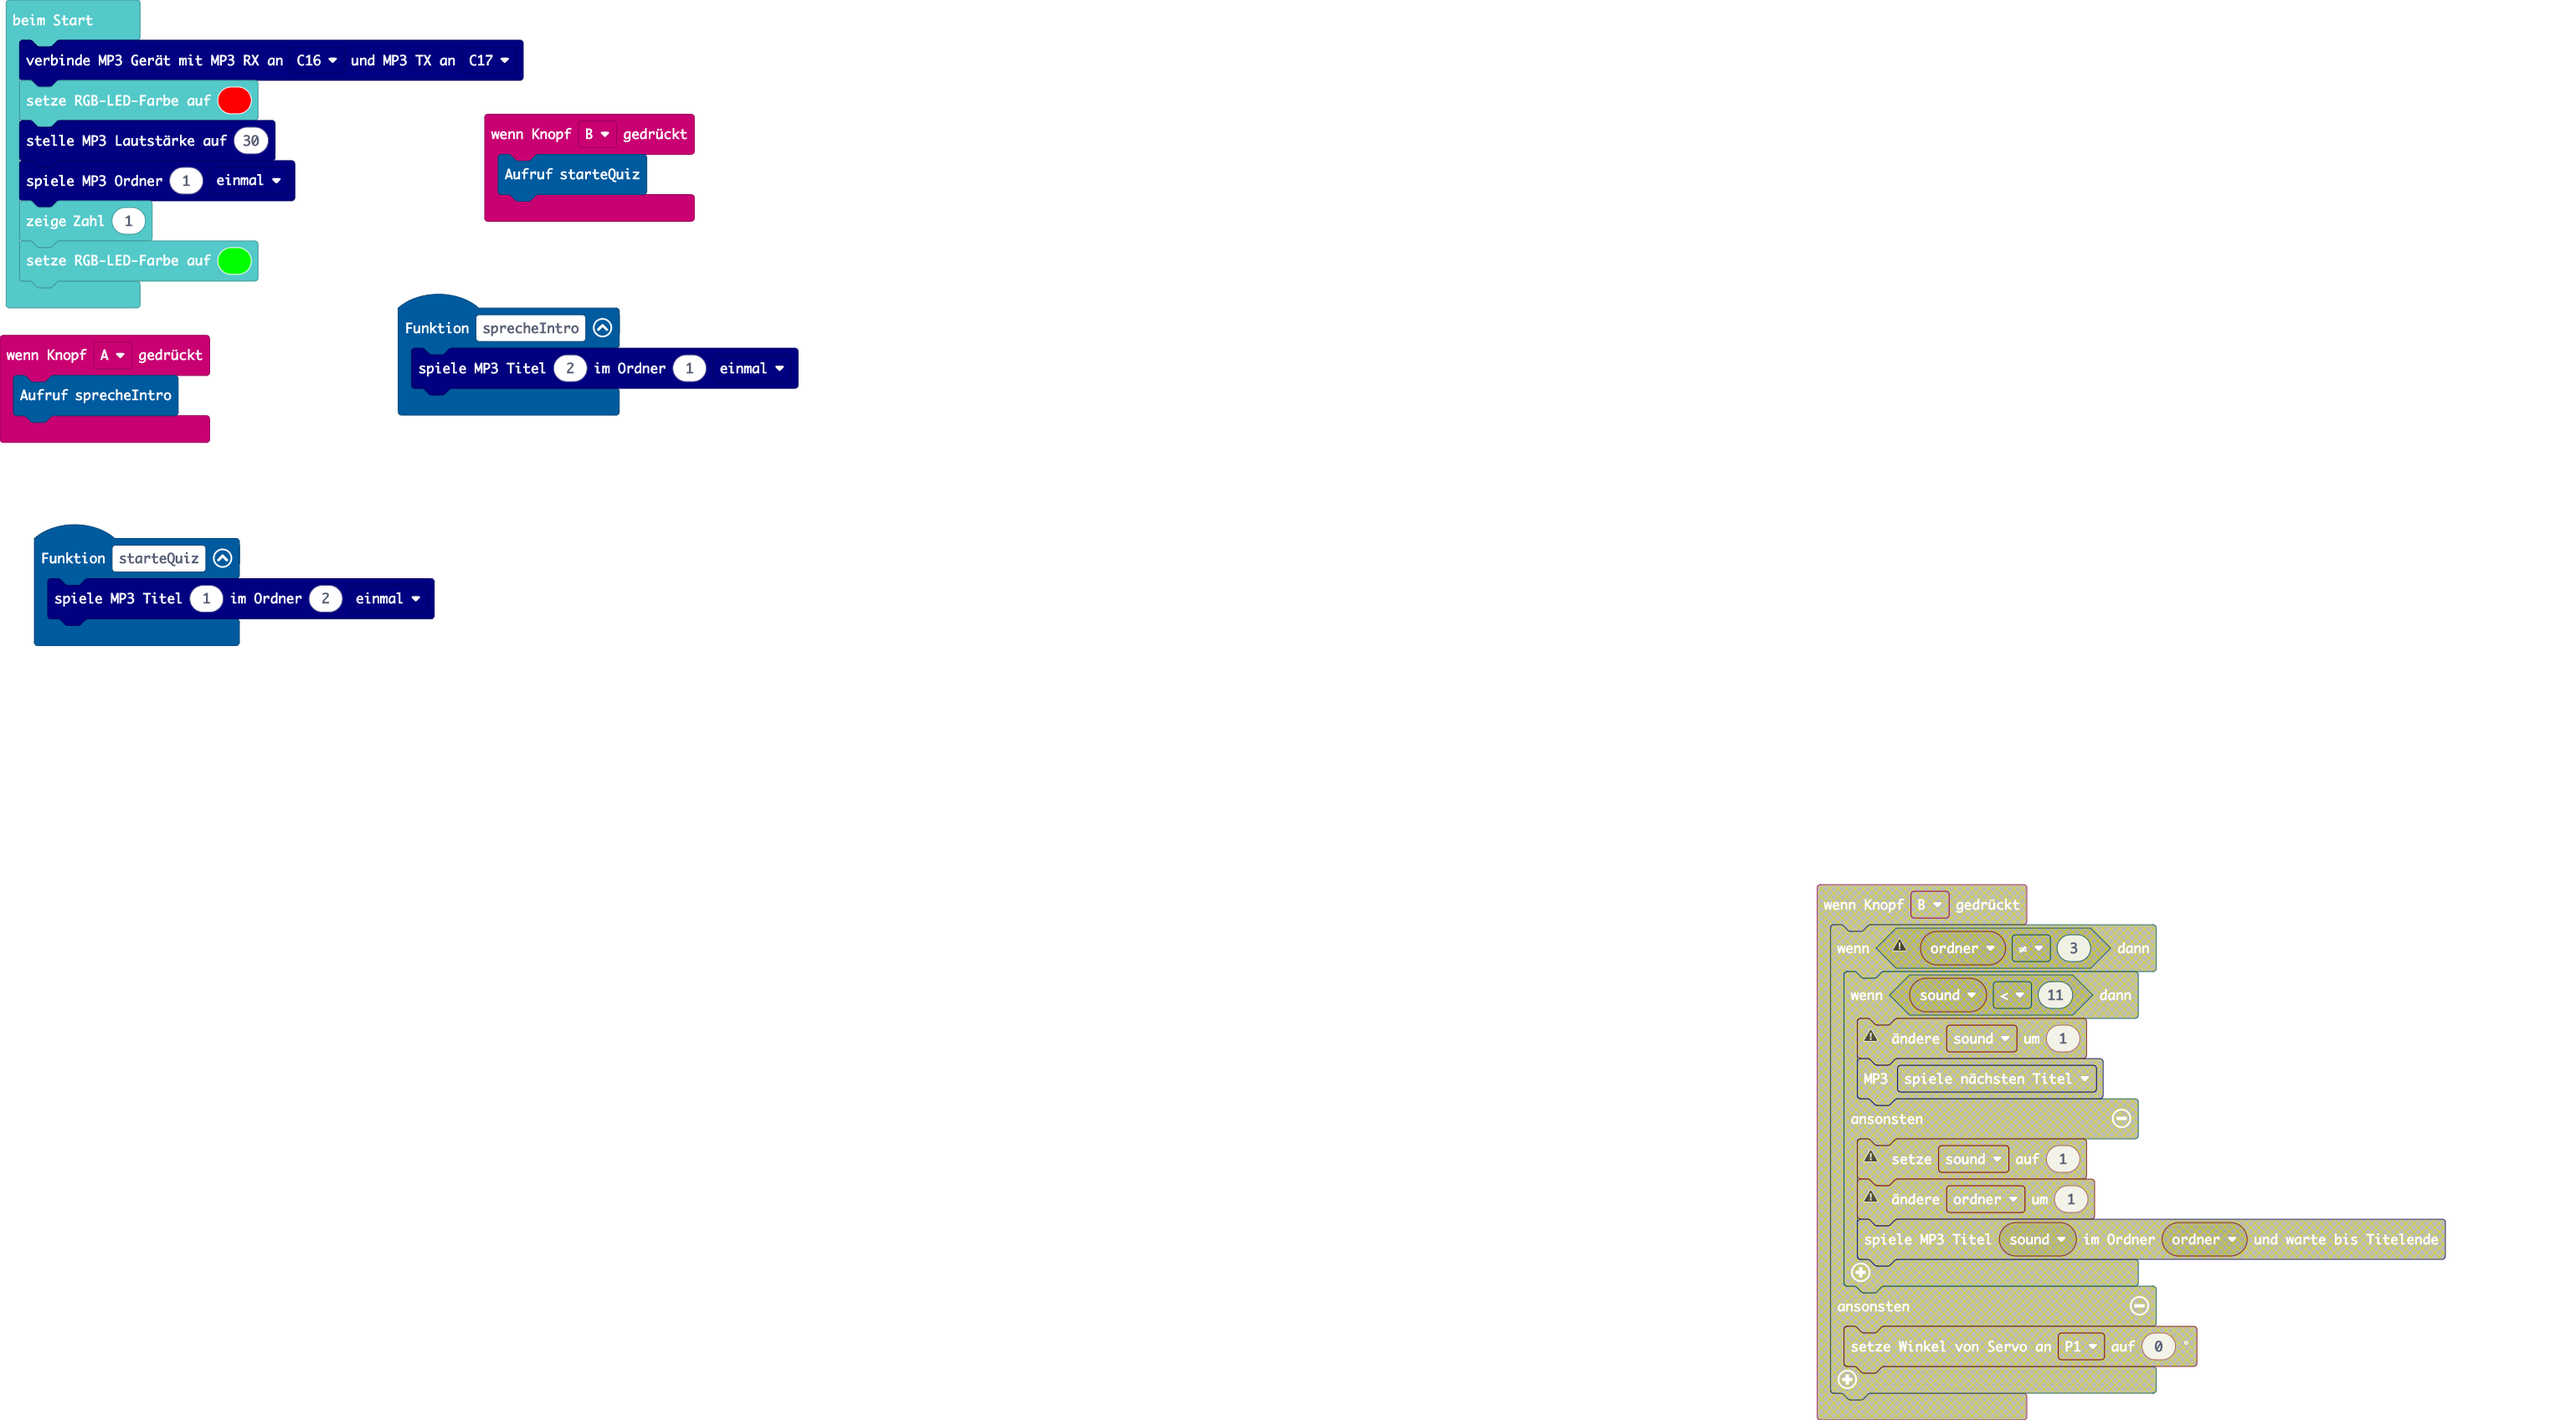
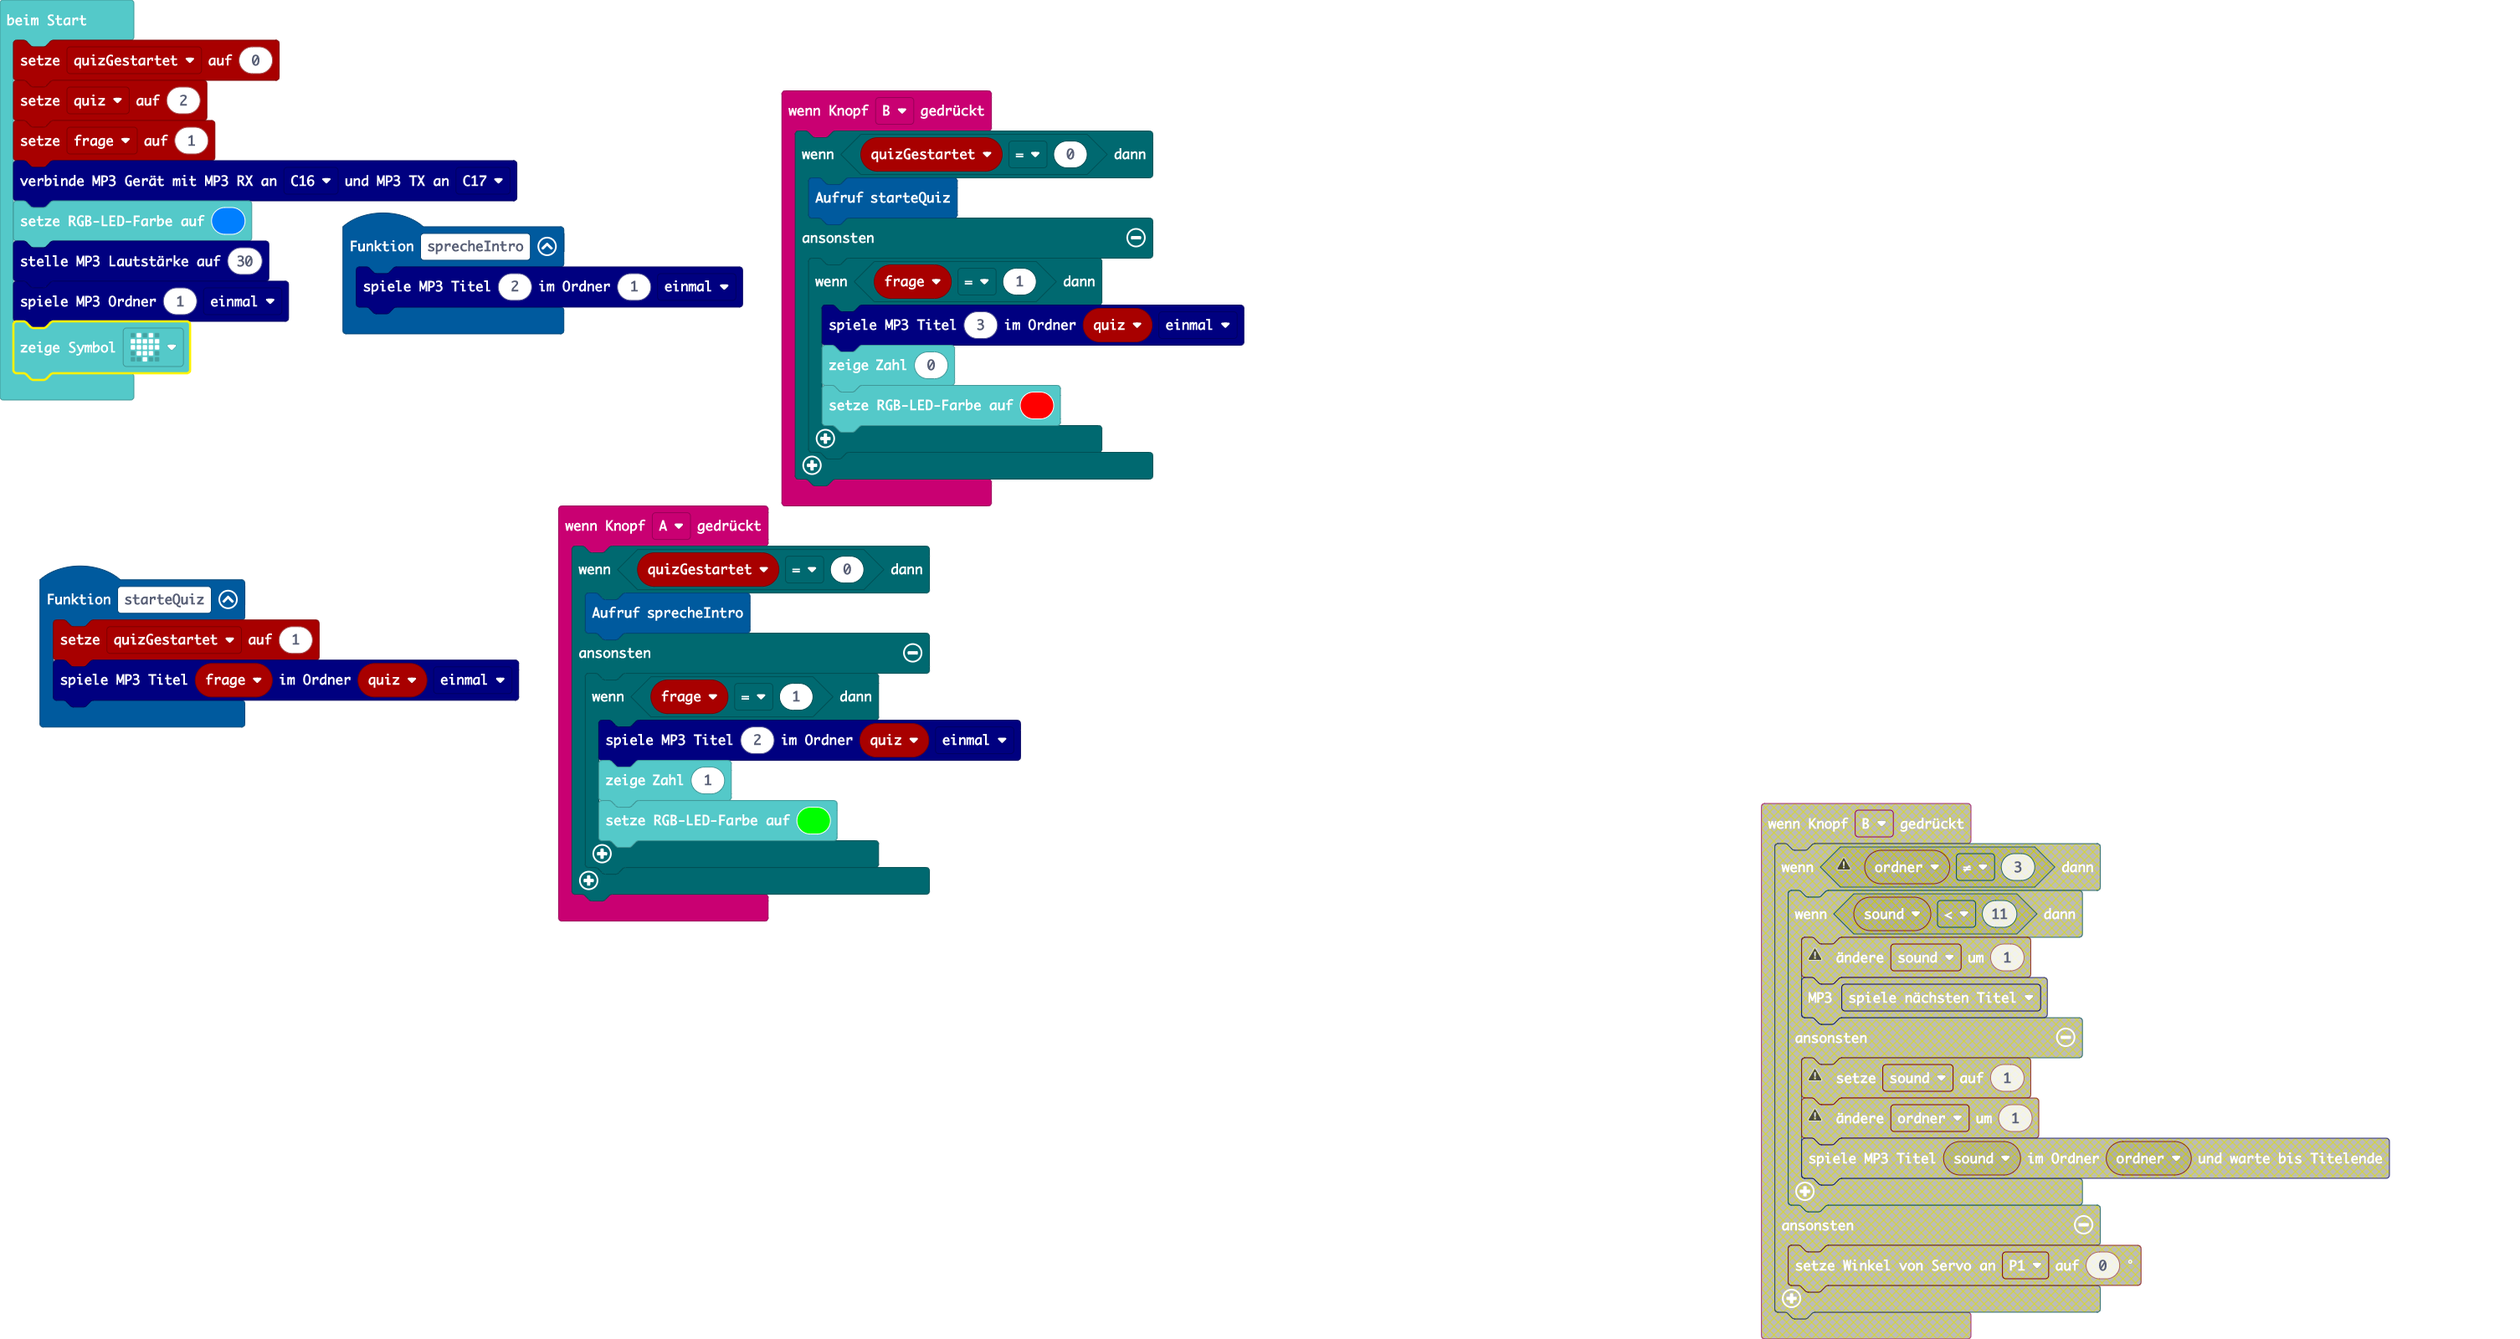
Aktualisiere main.blocks, main.ts

Changed region(s): [[0.0, 0.0, 0.4995, 0.375], [0.0, 0.375, 0.4058, 0.6875], [0.6868, 0.5938, 0.9678, 1.0]]

diff --git a/main.ts b/main.ts
@@ -1,18 +1,40 @@
 function starteQuiz () {
-    serialmp3.playMp3TrackFromFolder(1, 2, Mp3Repeat.No)
+    quizGestartet = 1
+    serialmp3.playMp3TrackFromFolder(frage, quiz, Mp3Repeat.No)
 }
 input.onButtonPressed(Button.A, function () {
-    sprecheIntro()
+    if (quizGestartet == 0) {
+        sprecheIntro()
+    } else {
+        if (frage == 1) {
+            serialmp3.playMp3TrackFromFolder(2, quiz, Mp3Repeat.No)
+            basic.showNumber(1)
+            basic.setLedColor(0x00ff00)
+        }
+    }
 })
 function sprecheIntro () {
     serialmp3.playMp3TrackFromFolder(2, 1, Mp3Repeat.No)
 }
 input.onButtonPressed(Button.B, function () {
-    starteQuiz()
+    if (quizGestartet == 0) {
+        starteQuiz()
+    } else {
+        if (frage == 1) {
+            serialmp3.playMp3TrackFromFolder(3, quiz, Mp3Repeat.No)
+            basic.showNumber(0)
+            basic.setLedColor(0xff0000)
+        }
+    }
 })
+let frage = 0
+let quiz = 0
+let quizGestartet = 0
+quizGestartet = 0
+quiz = 2
+frage = 1
 serialmp3.connectSerialMp3(DigitalPin.C16, DigitalPin.C17)
-basic.setLedColor(0xff0000)
+basic.setLedColor(0x007fff)
 serialmp3.setMp3Volume(30)
 serialmp3.playMp3Folder(1, Mp3Repeat.No)
-basic.showNumber(1)
-basic.setLedColor(0x00ff00)
+basic.showIcon(IconNames.Heart)
